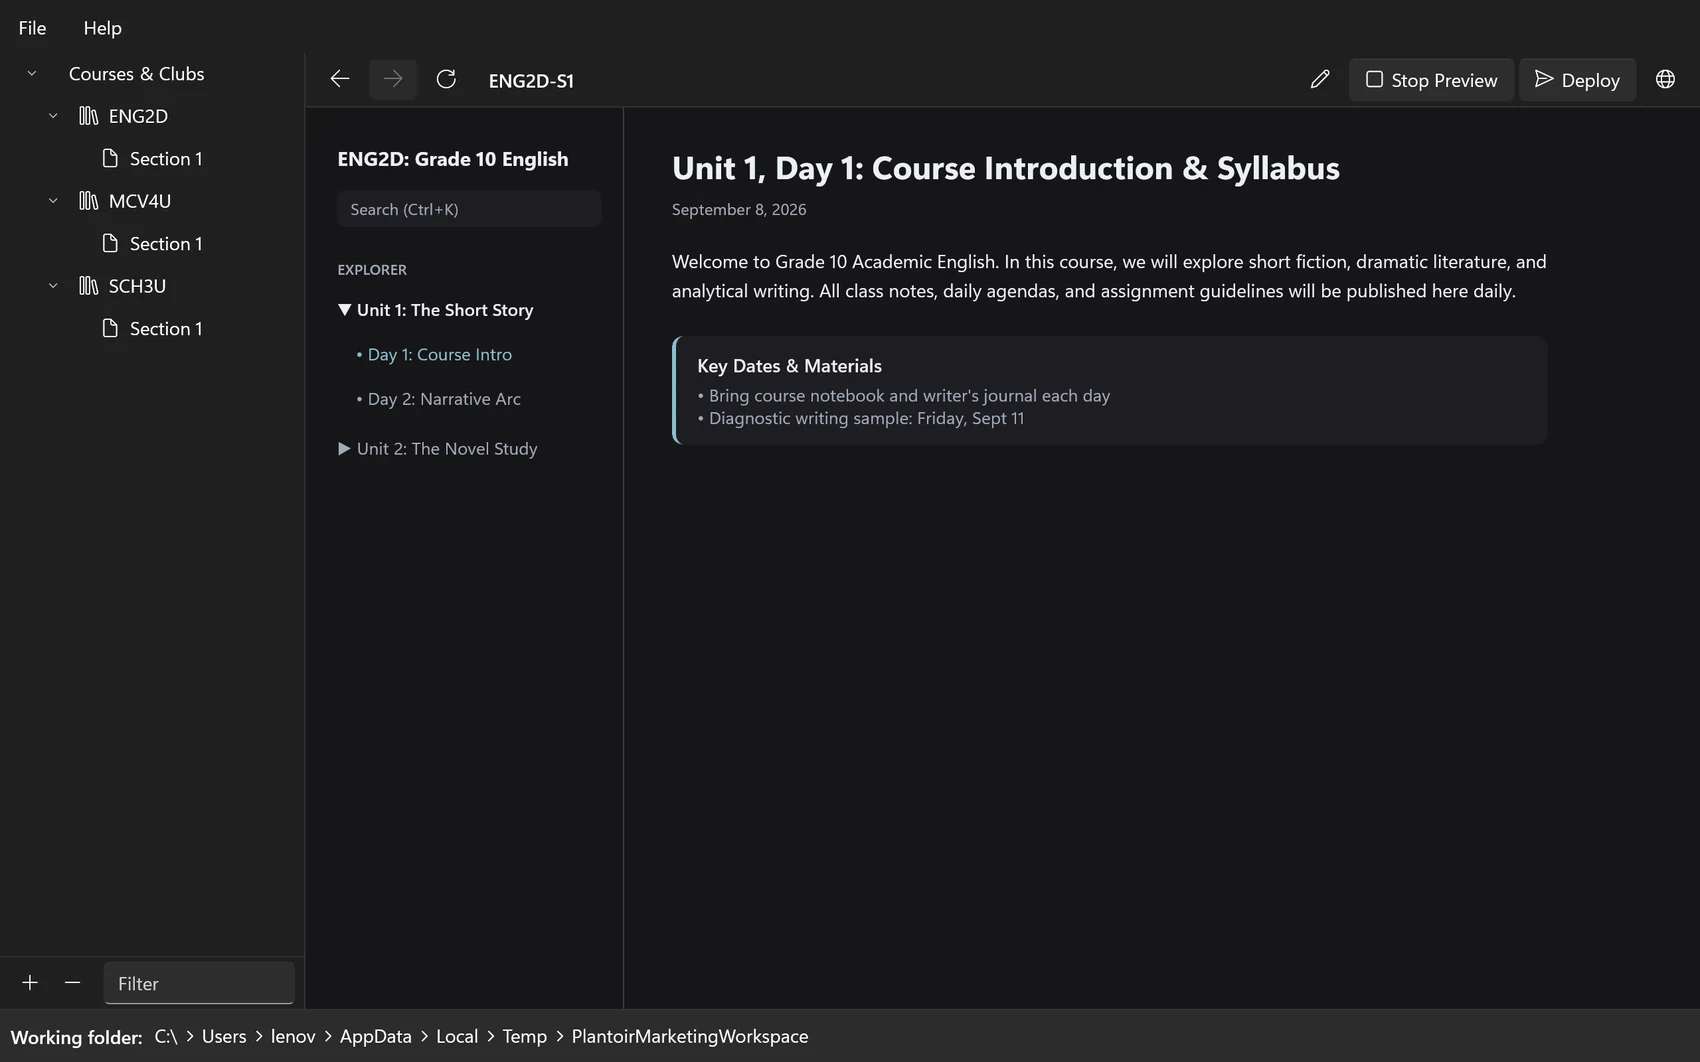
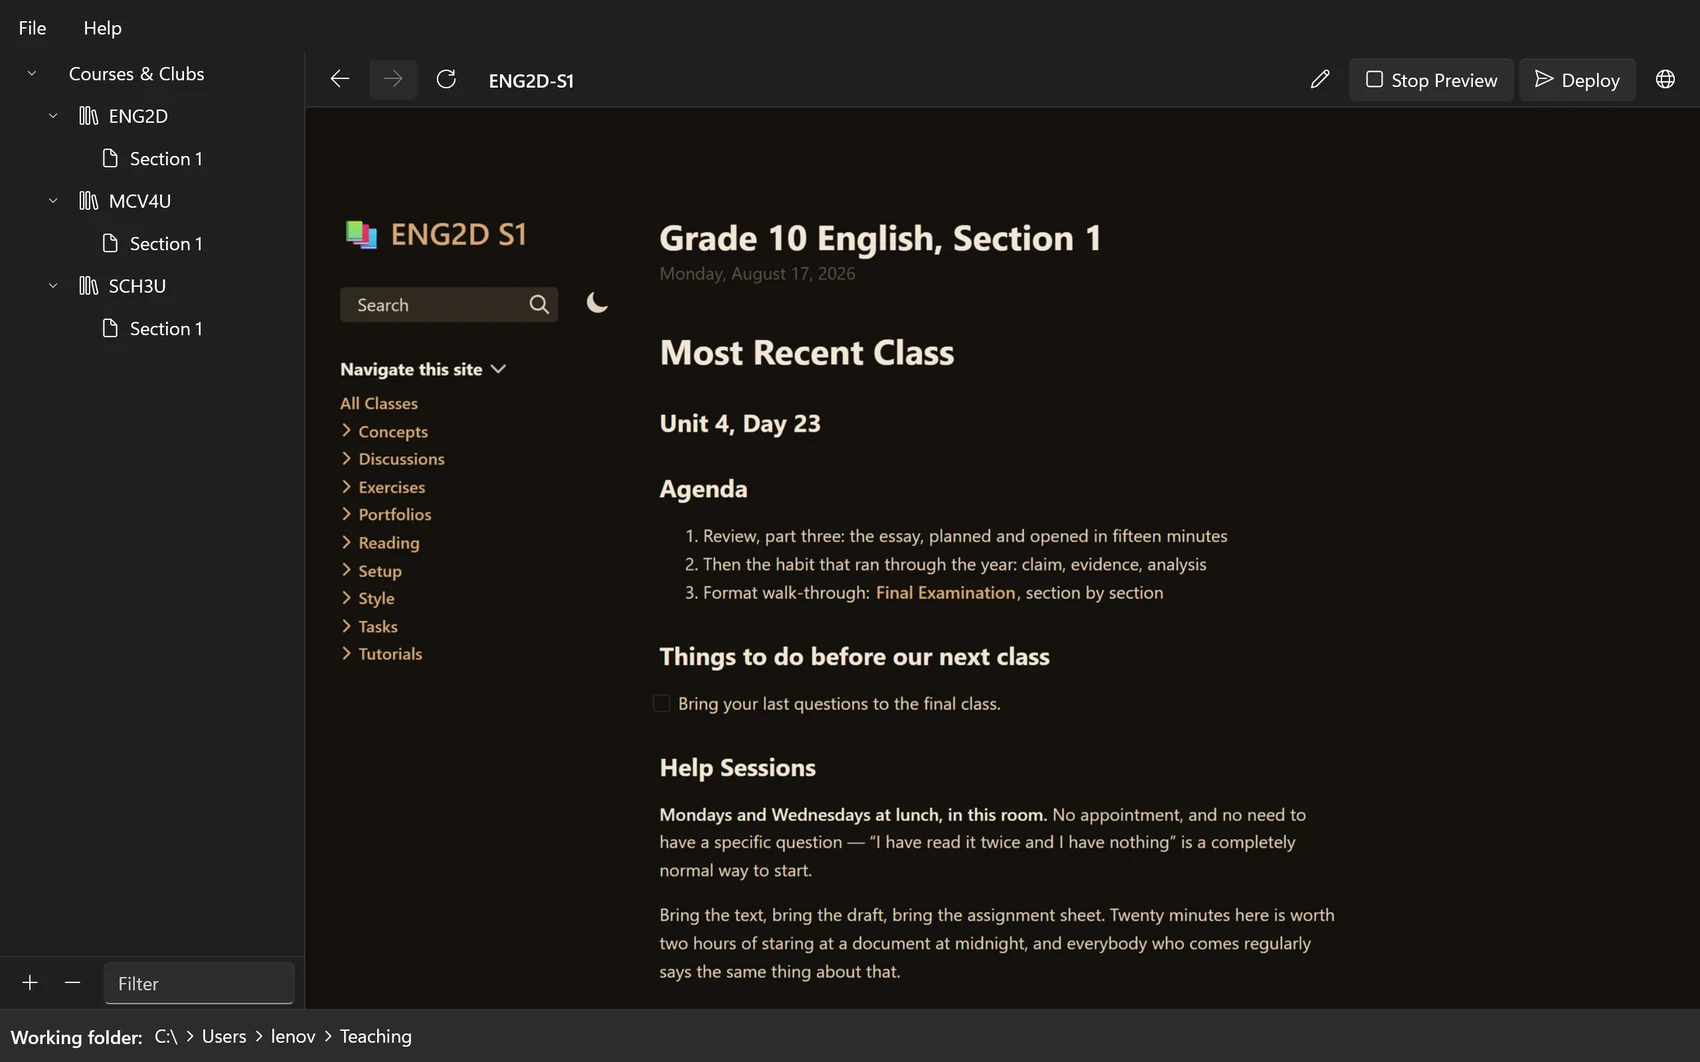
Update preview screenshot on Windows to embed authentic class site and use Teaching workspace
- Embed high-res Edge-rendered Grade 10 English website into SectionDetailView web preview for preview-windows-light and preview-windows-dark
- Update workspace path in MarketingShotCapturer to use Teaching workspace (with breadcrumb bar showing Teaching)
- Recapture all marketing screenshots across app and Microsoft Edge
- All 457 unit tests passing

diff --git a/windows-app/Plantoir/Services/MarketingShotCapturer.cs b/windows-app/Plantoir/Services/MarketingShotCapturer.cs
@@ -50,7 +50,18 @@ public static class MarketingShotCapturer
             Directory.CreateDirectory(outputDir);
             Log($"Starting marketing capture to {outputDir}");
 
-            string workspacePath = Path.Combine(Path.GetTempPath(), "PlantoirMarketingWorkspace");
+            string workspacePath = @"C:\Users\russellgordon\Teaching";
+            try
+            {
+                Directory.CreateDirectory(workspacePath);
+                string testFile = Path.Combine(workspacePath, "write_test.tmp");
+                File.WriteAllText(testFile, "test");
+                File.Delete(testFile);
+            }
+            catch
+            {
+                workspacePath = Path.Combine(Environment.GetFolderPath(Environment.SpecialFolder.UserProfile), "Teaching");
+            }
             ProvisionDemoWorkspace(workspacePath);
             Log($"Workspace provisioned at {workspacePath}");
 
@@ -76,7 +87,8 @@ public static class MarketingShotCapturer
 
                 // ---- 4. Shot: preview ----
                 string previewPath = Path.Combine(outputDir, $"preview-windows-{themeName}.png");
-                await CapturePreviewWindow(workspacePath, theme, previewPath);
+                string siteImagePath = Path.Combine(outputDir, $"site-eng2d-windows-{themeName}.png");
+                await CapturePreviewWindow(workspacePath, theme, previewPath, siteImagePath);
                 Log($"Saved {previewPath}");
 
                 // ---- 5. Shot: assistant ----
@@ -345,7 +357,7 @@ public static class MarketingShotCapturer
         window.Close();
     }
 
-    private static async Task CapturePreviewWindow(string workspacePath, ElementTheme theme, string outputPath)
+    private static async Task CapturePreviewWindow(string workspacePath, ElementTheme theme, string outputPath, string? siteImagePath = null)
     {
         var window = new MainWindow(workspacePath, null);
         ConfigureWindow(window, 1280, 800, theme);
@@ -357,10 +369,10 @@ public static class MarketingShotCapturer
 
         if (window.DetailPresenter.Content is SectionDetailView detail)
         {
-            detail.StagePreviewForCapture(theme);
+            detail.StagePreviewForCapture(theme, siteImagePath);
         }
 
-        await Task.Delay(600);
+        await Task.Delay(1200);
         await SaveWindowContentToPngAsync(window, outputPath);
         window.Close();
     }

diff --git a/windows-app/Plantoir/Views/SectionDetailView.xaml.cs b/windows-app/Plantoir/Views/SectionDetailView.xaml.cs
@@ -488,7 +488,7 @@ public sealed partial class SectionDetailView : UserControl
         _ = FolderActions.OpenInObsidian(_course.SectionDirectory(_sectionNumber), _course.DirectoryPath,
             BundledToolchain.SupportPath("obsidian_defaults/.obsidian"));
 
-    public void StagePreviewForCapture(ElementTheme theme)
+    public void StagePreviewForCapture(ElementTheme theme, string? siteImagePath = null)
     {
         _previewUrl = new Uri("http://localhost:8081");
         PreviewLabel.Text = "Stop Preview";
@@ -500,6 +500,25 @@ public sealed partial class SectionDetailView : UserControl
 
         NoPreviewState.Visibility = Visibility.Collapsed;
         Progress.Visibility = Visibility.Collapsed;
+
+        if (!string.IsNullOrEmpty(siteImagePath) && File.Exists(siteImagePath))
+        {
+            try
+            {
+                var bitmap = new Microsoft.UI.Xaml.Media.Imaging.BitmapImage(new Uri(Path.GetFullPath(siteImagePath)));
+                var img = new Image
+                {
+                    Source = bitmap,
+                    Stretch = Stretch.UniformToFill,
+                    HorizontalAlignment = HorizontalAlignment.Left,
+                    VerticalAlignment = VerticalAlignment.Top
+                };
+                BaseLayer.Children.Clear();
+                BaseLayer.Children.Add(img);
+                return;
+            }
+            catch { }
+        }
 
         var isDark = theme == ElementTheme.Dark;
         var siteBg = isDark

diff --git a/website/shots/capture_windows.py b/website/shots/capture_windows.py
@@ -225,19 +225,19 @@ def main() -> int:
     IMAGE_DIR.mkdir(parents=True, exist_ok=True)
     plantoir_exe = find_or_build_plantoir_exe()
 
-    # 1. App Windows
+    # 1. Browser Sites in Edge (so preview screenshot can embed real site capture)
+    capture_browser_sites()
+
+    # 2. App Windows (uses C:\Users\russellgordon\Teaching and embeds site capture)
     capture_app_windows(plantoir_exe)
 
-    # 2. Optimize App Windows
+    # 3. Optimize App Windows
     shot_ids = ["courses", "new-course", "progress", "preview", "assistant"]
     for shot_id in shot_ids:
         for theme in ("light", "dark"):
             png_path = IMAGE_DIR / f"{shot_id}-windows-{theme}.png"
             if png_path.exists():
                 prepare(png_path, WIDEST_WINDOW_PIXELS)
-
-    # 3. Browser Sites in Edge
-    capture_browser_sites()
 
     # 4. Static Figures
     build_windows_static_figures()
